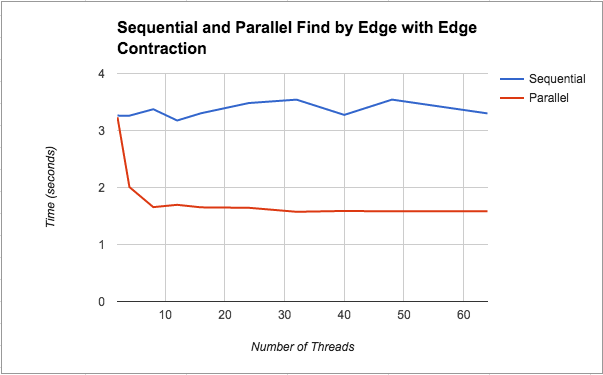
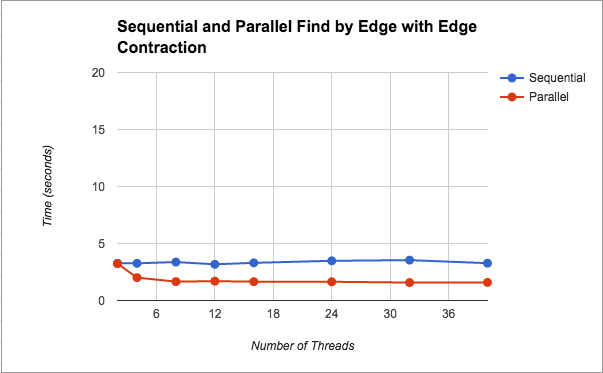
added graphs up until 40 threads now

diff --git a/final.html b/final.html
@@ -179,7 +179,11 @@
           <div class="col s12 m12">
             <h4>Results</h4>
               <img src="images/edge-graph.png" alt="Edge Graph" style="width:450px;height:330px;" class="center-block"/>
-              <img src="images/star-graph.png" alt="Star Graph" style="width:450px;height:330px;" class="center-block"> 
+              <p>TODO: DESCRIBE</p>
+              <img src="images/star-par.png" alt="Star Graph" style="width:450px;height:330px;" class="center-block">
+              <p>TODO: DESCRIBE</p>
+              <img src="images/star-seq.png" alt="Star Graph" style="width:450px;height:330px;" class="center-block">
+              <p>TODO: DESCRIBE</p>
           </div>
         </div>
       </div>
